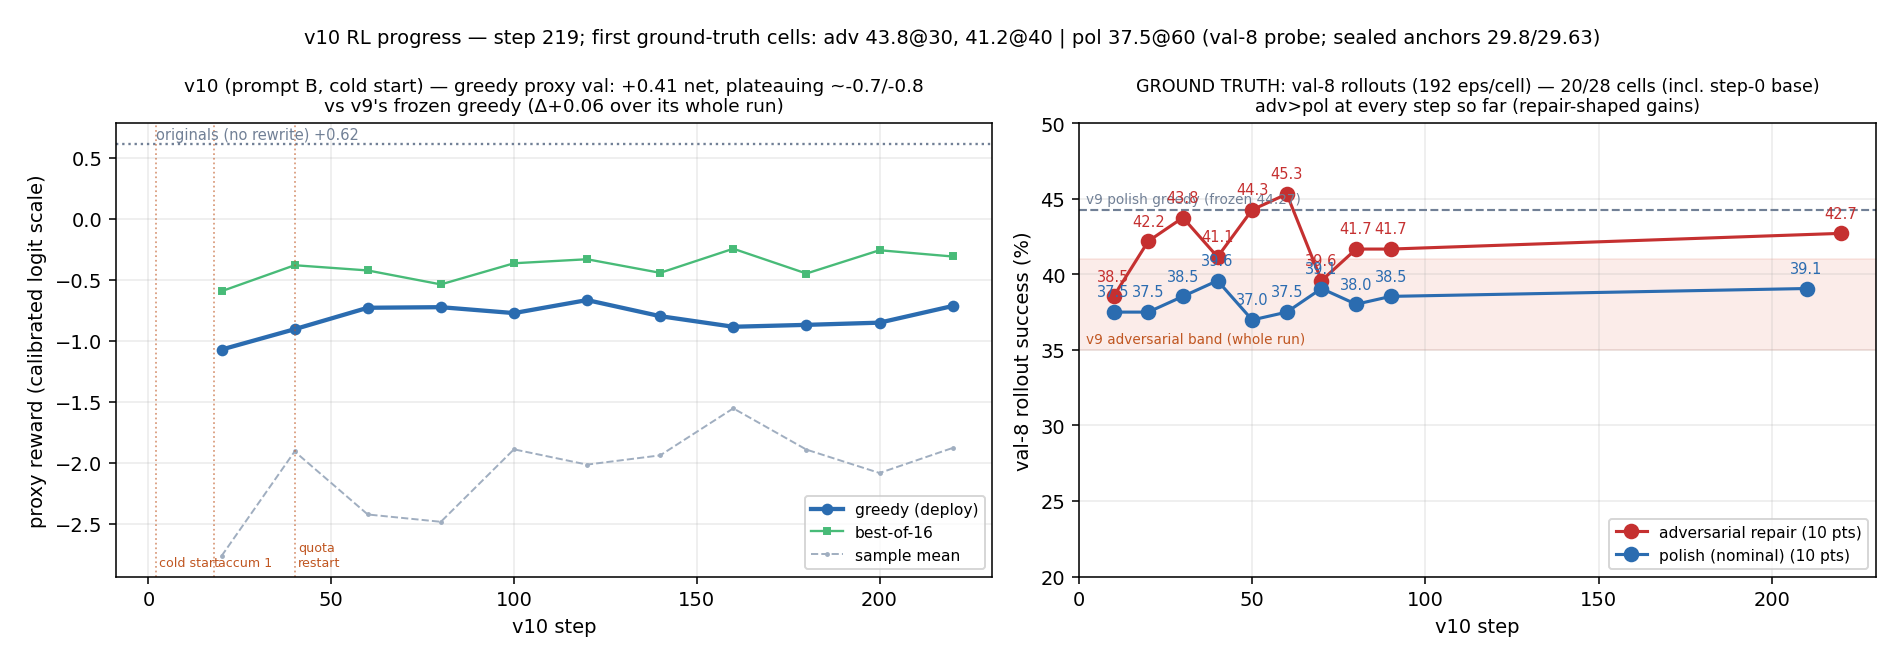
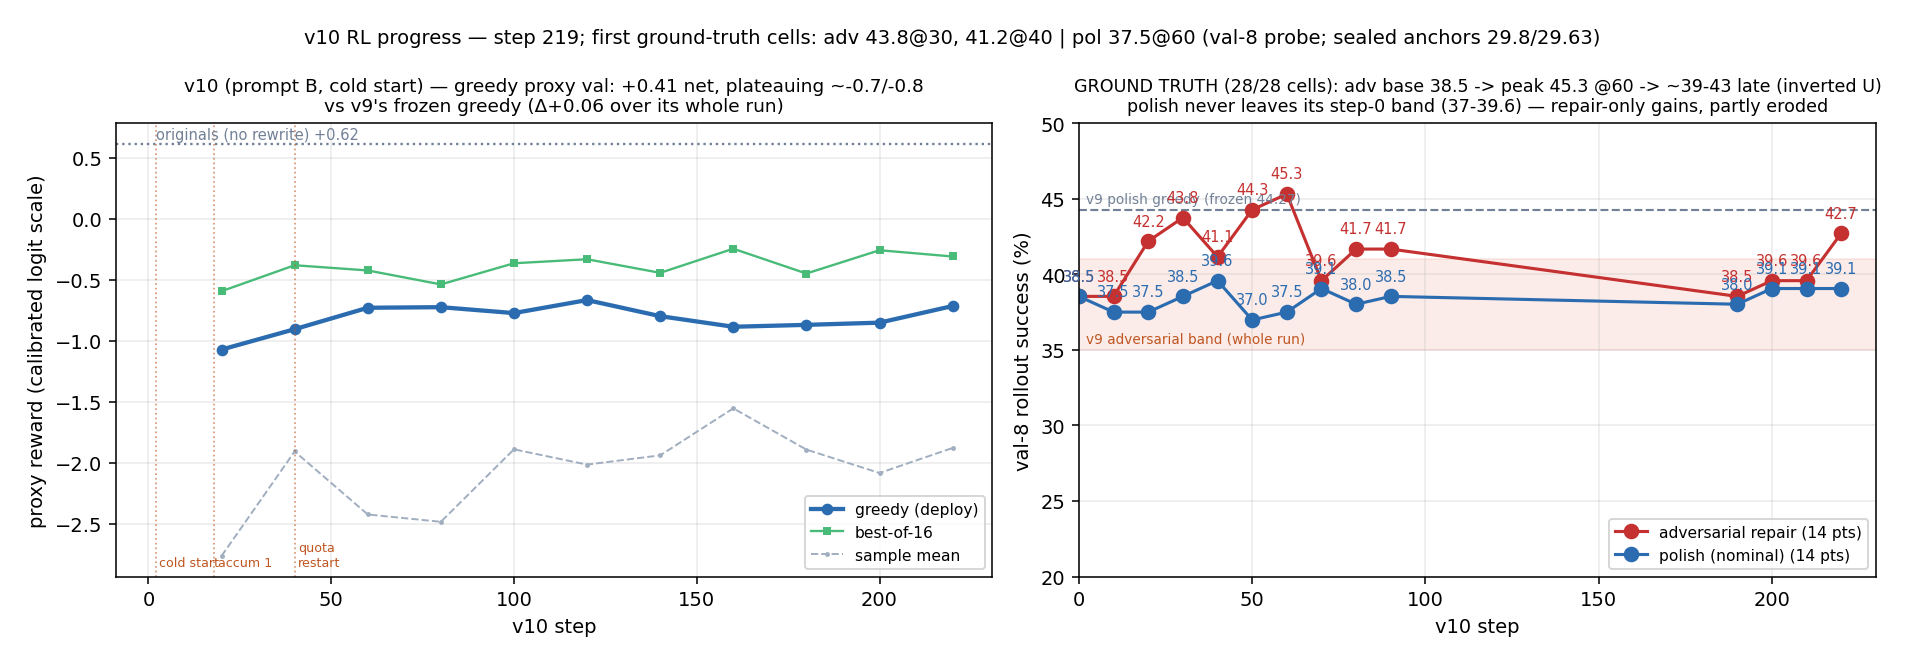
charts: complete 28-cell v10 curve (inverted-U verdict) + leg-era Gantt

diff --git a/scripts/make_fleet_gantt.py b/scripts/make_fleet_gantt.py
@@ -9,64 +9,56 @@ from matplotlib.patches import Patch
 
 C = {"sealed": "#a3bffa", "rr": "#fed7aa", "gen": "#b2f5ea",
      "train": "#d6bcfa", "worker": "#c6f6d5", "setup": "#e2e8f0"}
-NOW = 43.8  # 19:50 Aug 6
+NOW = 43.0  # ~19:00 Aug 6 pod-time
 
 ROWS = [
-    ("L40S",    [("v10 RL training — step 233/1000, healthy through host-error banner", 4.0, 46.0, "train"),
-                 ("archive drain -> ckpt-l40s branch (slow uplink)", 40.5, 46.0, "gen"),
-                 ("EVAC 100-180 -> pod6 OK", 43.2, 43.8, "setup")]),
-    ("Pod 5",   [("qwen gens + wedged gate", 22.2, 38.2, "setup"),
-                 ("promptB_qwen leg: 4.7x degraded host — killed", 38.3, 39.9, "rr"),
-                 ("RETIRED 15:55", 39.9, 41.0, "gen"),
-                 ("10-min resume: phrase rescue", 42.7, 43.1, "setup")]),
-    ("Eval 1",  [("leg done 03:13; idle; STOPPED 14:10 (now terminated)", 27.2, 38.2, "setup")]),
-    ("Eval 2",  [("promptB_gemini_ert DONE 27.78; STOPPED (terminated)", 20.95, 31.7, "sealed")]),
-    ("Eval 9",  [("STOPPED 03:20 capability test (terminated)", 27.3, 28.5, "gen")]),
-    ("Eval 3",  [("promptB_claude_ert DONE 27.98", 19.45, 28.2, "sealed"),
-                 ("consumer armed but repo-wedged (0 claims)", 28.3, 39.0, "setup"),
-                 ("cells: pol 20/50 + rolling", 39.0, 44.3, "worker"),
-                 ("leg queue ->", 44.4, 50.5, "rr")]),
-    ("Eval 4",  [("leg2 wait-loop wedged — never rolled", 26.3, 39.0, "setup"),
-                 ("cells: adv 40, pol 10 + rolling", 39.0, 44.3, "worker"),
-                 ("leg queue ->", 44.4, 50.5, "rr")]),
-    ("Eval 5",  [("leg2 wait-loop wedged — never rolled", 26.5, 39.0, "setup"),
-                 ("cells: adv 30/90 + rolling", 39.0, 44.3, "worker"),
-                 ("leg queue ->", 44.4, 50.5, "rr")]),
-    ("Eval 6",  [("v10 gen 10-90 done 03:25; repo wedge (files freed by hand 14:08)", 4.0, 38.1, "worker"),
-                 ("gen 190-220 pushed", 42.9, 43.6, "gen"),
-                 ("archive keeper: full 10-220 set; awaits step 230+", 43.6, 46.0, "worker")]),
+    ("L40S",    [("v10 RL training — step ~240/1000, healthy", 4.0, 52.0, "train"),
+                 ("archive drain -> ckpt-l40s branch", 40.5, 52.0, "gen")]),
+    ("Eval 3",  [("promptB_claude_ert DONE", 19.45, 28.2, "sealed"),
+                 ("wedged", 28.3, 39.0, "setup"),
+                 ("cells x5", 39.0, 42.0, "worker"),
+                 ("LEG: promptB_claude_lay12 (~01:30)", 42.1, 49.5, "rr")]),
+    ("Eval 4",  [("leg2 wait-loop wedged", 26.3, 39.0, "setup"),
+                 ("cells x5", 39.0, 42.0, "worker"),
+                 ("LEG: rulesv4_qwen 0-11 (~01:30)", 42.1, 49.5, "rr")]),
+    ("Eval 5",  [("leg2 wait-loop wedged", 26.5, 39.0, "setup"),
+                 ("cells x5", 39.0, 42.0, "worker"),
+                 ("LEG: promptB_gemini_lay12 (~01:30)", 42.1, 49.5, "rr")]),
+    ("Eval 6",  [("v10 gen 10-90; wedge; freed 14:08", 4.0, 38.1, "worker"),
+                 ("gen 190-220 + step-0 + archive keeper (full 10-220)", 42.9, 52.0, "gen")]),
     ("Eval 7",  [("rulesv4_gem_lay12 DONE 33.51", 19.45, 28.8, "rr"),
-                 ("adv_10 roll HUNG 160/192 — killed, claim freed", 38.2, 40.0, "setup"),
-                 ("cells: adv 50/60 + rolling", 40.1, 44.3, "worker"),
-                 ("leg queue ->", 44.4, 50.5, "rr")]),
+                 ("hung roll -> bounced", 38.2, 40.0, "setup"),
+                 ("cells x6", 40.1, 42.0, "worker"),
+                 ("LEG: promptB_qwen 0-11 redo (~01:30)", 42.1, 49.5, "rr")]),
     ("Eval 8",  [("rulesv4_cla_lay12 DONE 31.94", 19.45, 31.2, "rr"),
-                 ("qwenchain wait-loop wedged (phrases never reached origin)", 31.3, 39.0, "setup"),
-                 ("cells: pol 60/70 + rolling", 39.0, 44.3, "worker"),
-                 ("leg queue ->", 44.4, 50.5, "rr")]),
+                 ("qwenchain wedged", 31.3, 39.0, "setup"),
+                 ("cells x5", 39.0, 42.0, "worker"),
+                 ("LEG: rulesv4_qwen_lay12 (~01:30)", 42.1, 49.5, "rr")]),
+    ("queue",   [("promptB_qwen_lay12 -> first pod free (~01:30-08:30)", 49.6, 57.0, "rr")]),
 ]
 
-fig, ax = plt.subplots(figsize=(14.5, 6.6))
+fig, ax = plt.subplots(figsize=(14.5, 6.2))
 for i, (pod, bars) in enumerate(ROWS):
     y = len(ROWS) - 1 - i
     for label, s, e, cat in bars:
         ax.barh(y, e - s, left=s, height=0.62, color=C[cat], edgecolor="#4a5568", lw=0.6)
         if e - s > 1.6:
-            ax.text((s + e) / 2, y, label, ha="center", va="center", fontsize=6.9, color="#2d3748")
+            ax.text((s + e) / 2, y, label, ha="center", va="center", fontsize=7.0, color="#2d3748")
 ax.axvline(NOW, color="#e53e3e", lw=1.4, ls="--")
-ax.text(NOW + 0.1, len(ROWS) - 0.35, "now 19:50", color="#e53e3e", fontsize=8)
+ax.text(NOW + 0.1, len(ROWS) - 0.35, "now ~19:00", color="#e53e3e", fontsize=8)
 ax.set_yticks(range(len(ROWS)))
 ax.set_yticklabels([p for p, _ in reversed(ROWS)], fontsize=9.5)
-ticks = list(range(4, 51, 4))
+ticks = list(range(4, 57, 4))
 ax.set_xticks(ticks)
 ax.set_xticklabels([f"{t % 24:02d}:00" + ("\n(Aug 6)" if 24 <= t < 48 else ("\n(Aug 7)" if t >= 48 else "")) for t in ticks], fontsize=8)
-ax.set_xlim(3.5, 50.9)
+ax.set_xlim(3.5, 57.5)
 ax.grid(axis="x", alpha=0.25)
 ax.legend(handles=[Patch(color=C[k], label=l) for k, l in
-                   [("sealed", "sealed roll (3,456 eps)"), ("rr", "robustness roll (2,304 eps)"),
-                    ("gen", "phrase gen / stop"), ("train", "RL training"),
-                    ("worker", "checkpoint eval cells"), ("setup", "wedge / incident / setup")]],
+                   [("sealed", "sealed roll"), ("rr", "robustness leg (2,304 eps)"),
+                    ("gen", "phrase gen / drain"), ("train", "RL training"),
+                    ("worker", "checkpoint cells"), ("setup", "wedge / incident")]],
           fontsize=8, loc="lower left")
-ax.set_title("Fleet — Aug 5-6: wedge era (grey) -> 15:00 repair -> cells flowing; leg queue (2 lay12 + 4 qwen) auto-starts ~20:30 (times UTC)", fontsize=10)
+ax.set_title("Fleet — curve COMPLETE (28/28 cells incl. step-0); all 5 pods on overnight legs; 6th leg queued (times UTC)", fontsize=10)
 fig.tight_layout()
 fig.savefig("results/charts/fleet_gantt.png", dpi=140, bbox_inches="tight", pad_inches=0.2)
 print("chart -> results/charts/fleet_gantt.png")

diff --git a/scripts/make_v10_progress.py b/scripts/make_v10_progress.py
@@ -52,7 +52,7 @@ a2.set_ylim(20, 50)
 a2.set_xlabel("v10 step")
 a2.set_ylabel("val-8 rollout success (%)")
 n_curve = len([c for c in cells if c["probe"] != "v10_ref"])
-a2.set_title(f"GROUND TRUTH: val-8 rollouts (192 eps/cell) — {n_curve}/28 cells (incl. step-0 base)\nadv>pol at every step so far (repair-shaped gains)", fontsize=9)
+a2.set_title(f"GROUND TRUTH ({n_curve}/28 cells): adv base 38.5 -> peak 45.3 @60 -> ~39-43 late (inverted U)\npolish never leaves its step-0 band (37-39.6) — repair-only gains, partly eroded", fontsize=9)
 a2.legend(fontsize=8, loc="lower right")
 a2.grid(alpha=0.25)
 
